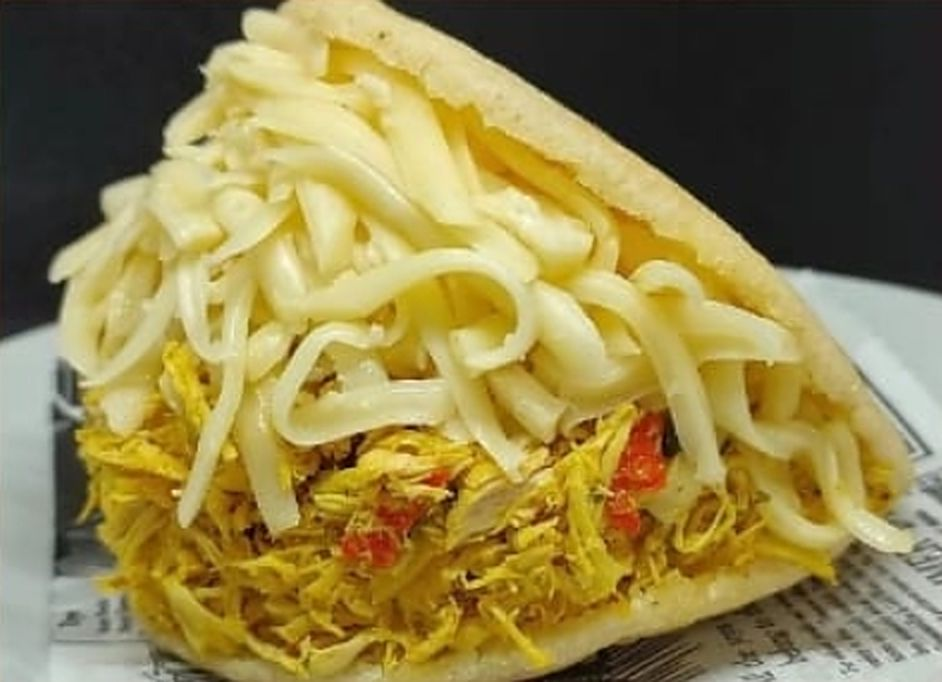
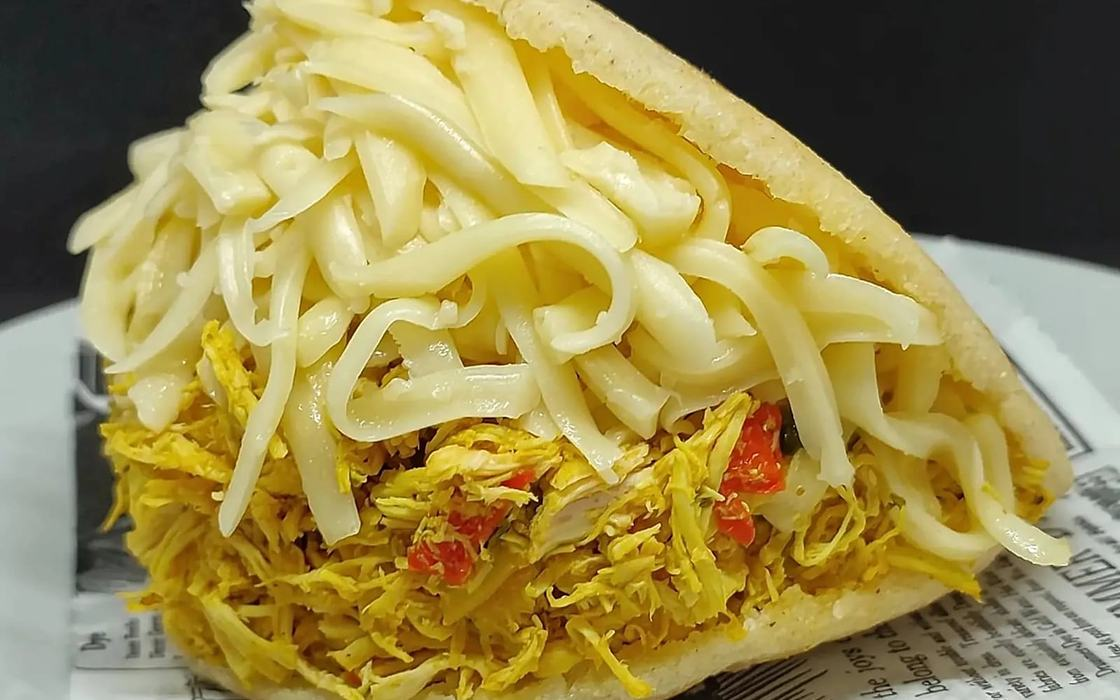
Delicias Eliana: nueva foto de la Catira
Claude-Session: https://claude.ai/code/session_017GrYTxh4pmDvanja5f76Yu

diff --git a/delicias-eliana/sw.js b/delicias-eliana/sw.js
@@ -1,5 +1,5 @@
 // Primero la red, para que precios y menú estén siempre al día; la copia guardada solo se usa sin conexión.
-var CACHE = 'delicias-eliana-v12';
+var CACHE = 'delicias-eliana-v13';
 self.addEventListener('install', function (e) {
   e.waitUntil(caches.open(CACHE).then(function (c) { return c.addAll(['./', 'img/logo.webp']); }).then(function () { return self.skipWaiting(); }));
 });
